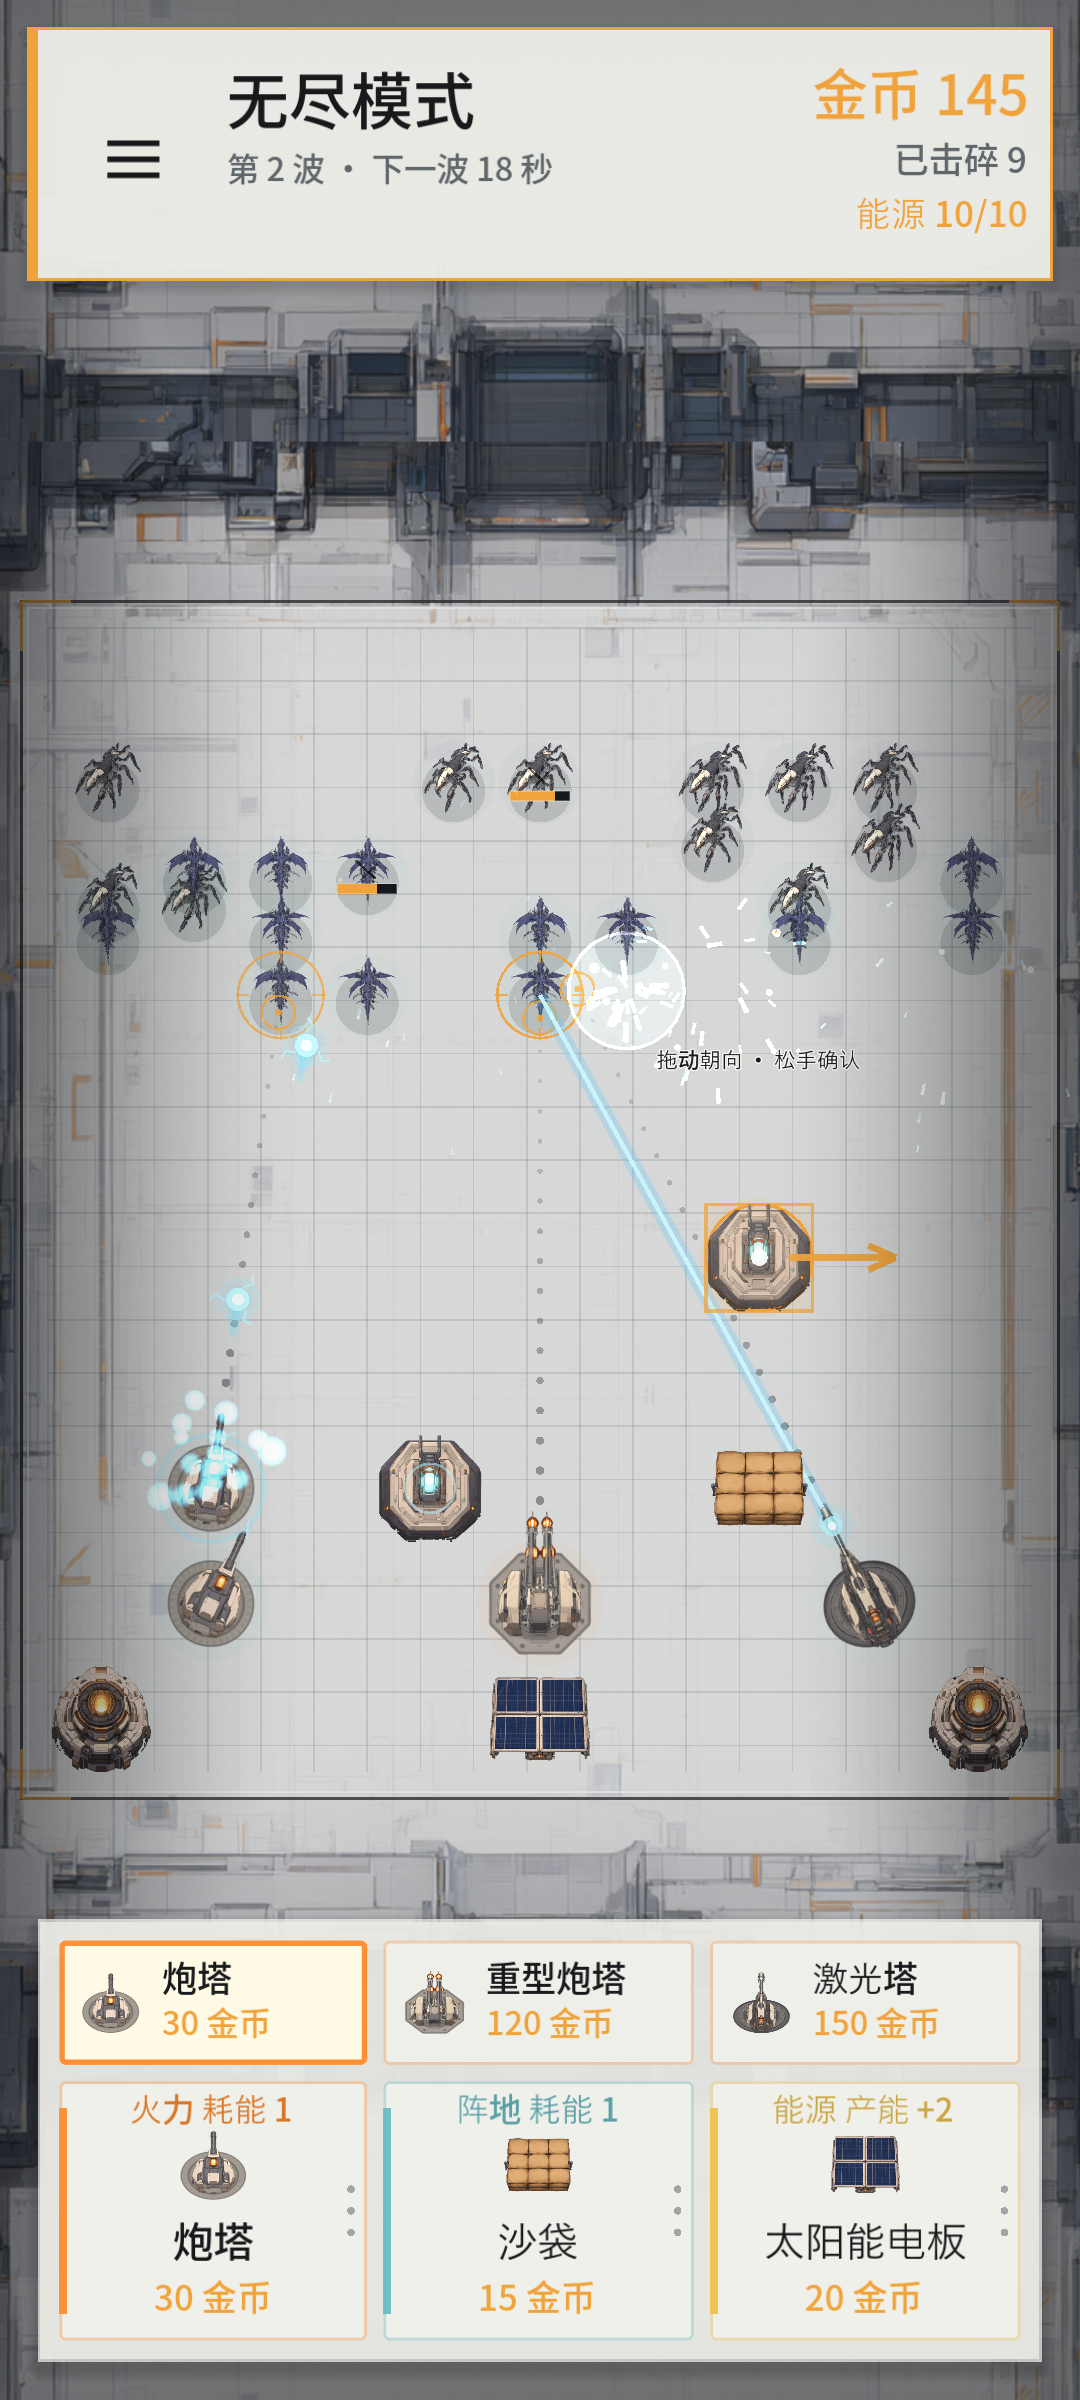
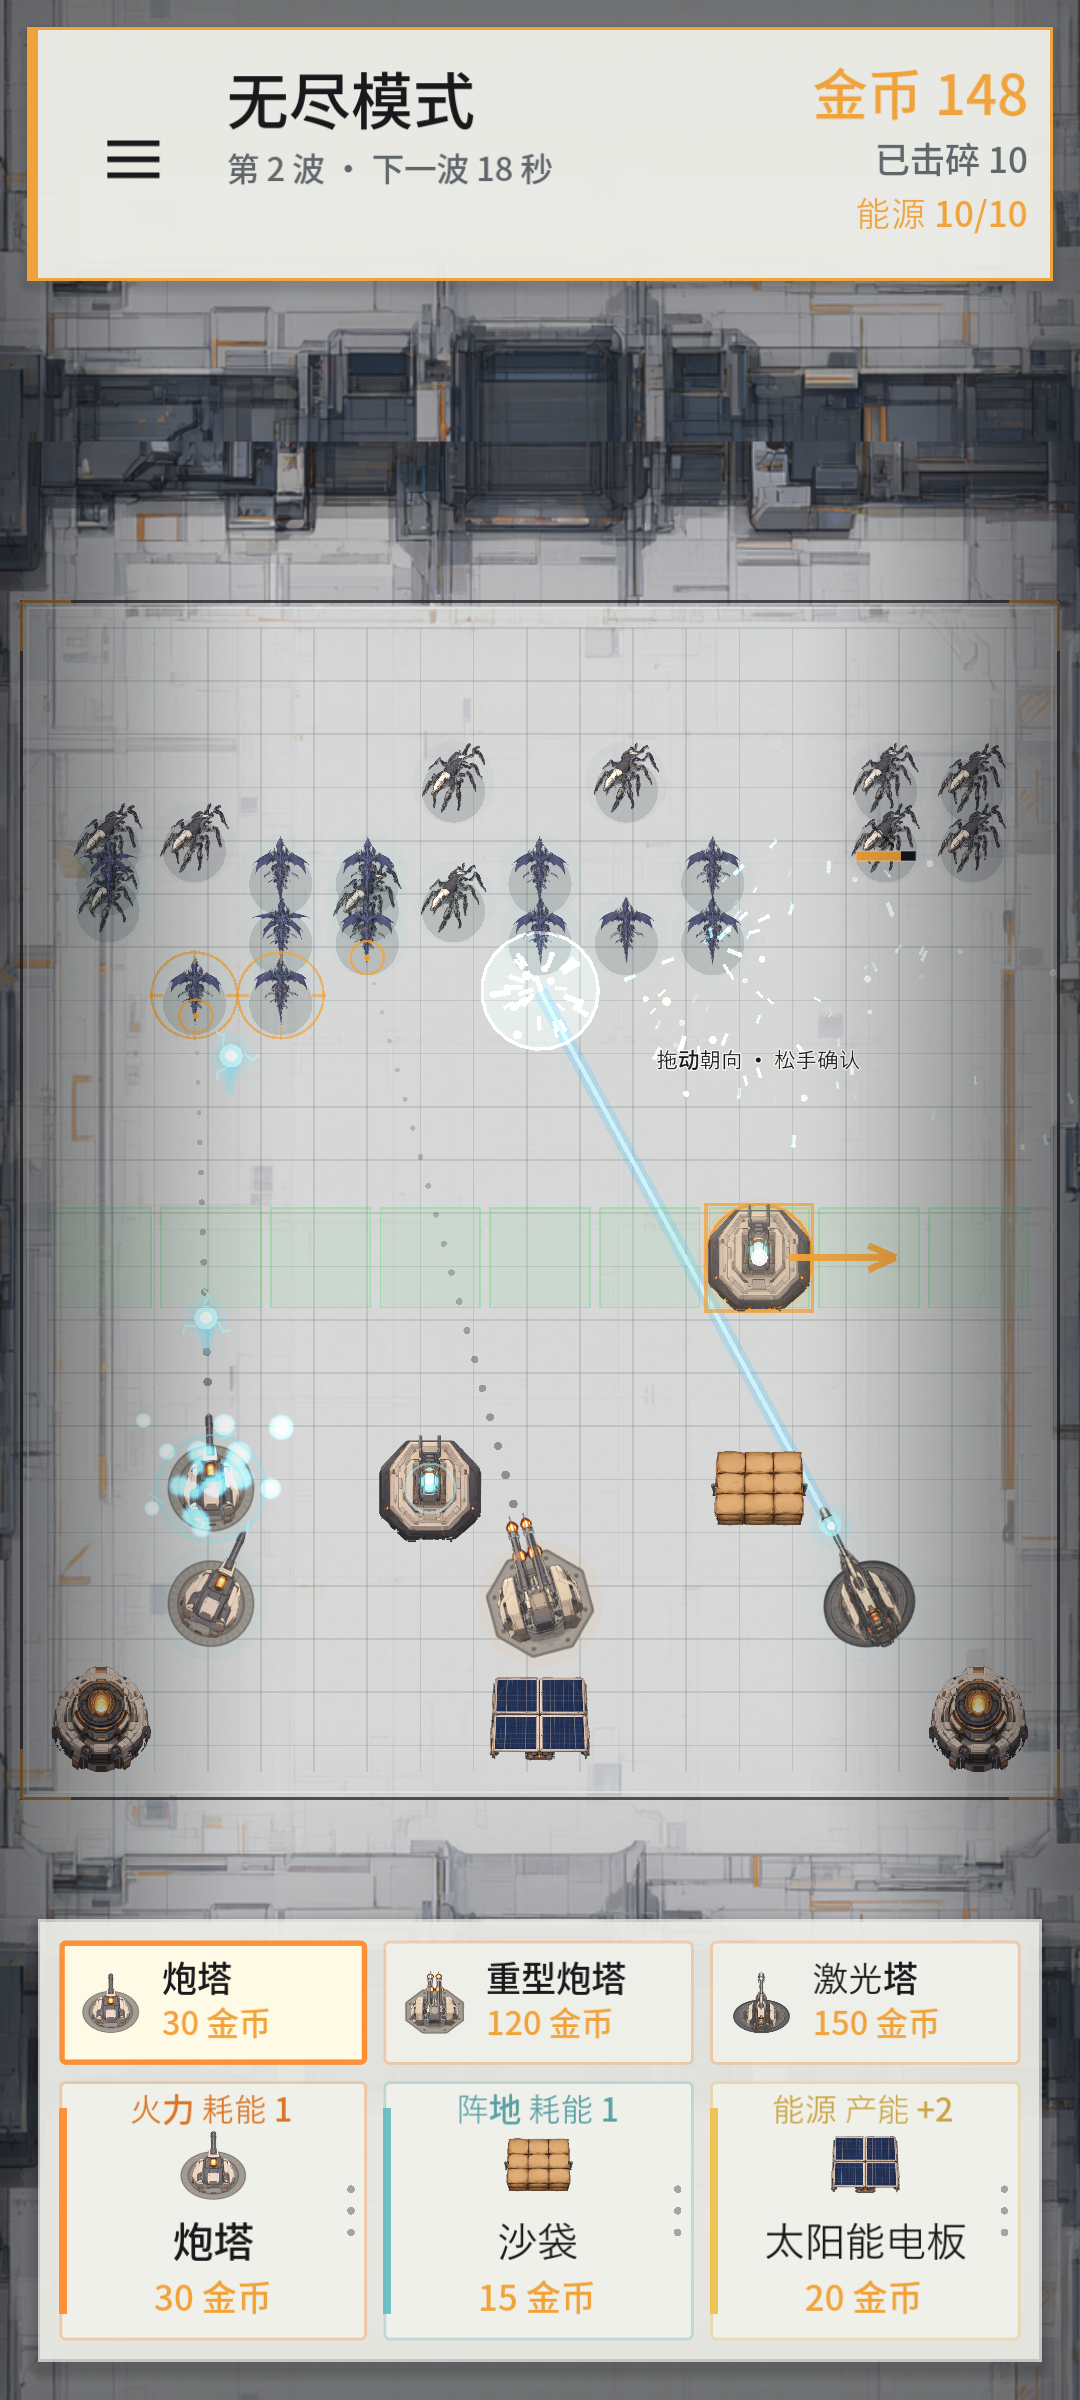
feat: 区分朝向建筑并恢复部署绿格
- 炮塔、电力塔等无朝向建筑拖放即放置，不再二次确认

- 压缩塔保留二次确认，部署时用绿色格子显示施法直线

- 确认后绿格隐藏，选中火力建筑时才显示射程格

diff --git a/README.md b/README.md
@@ -6,8 +6,8 @@
 
 金币来自击碎方块。商店按三类切换道具列表，所有形态都直接建造，没有升级路线：
 
-- **火力**：炮塔、重型炮塔、激光塔。拖到格子后再拖一次确认摆放；朝向只决定初始瞄准，索敌仍是 360° 圆形射程。
-- **阵地**：沙袋、压缩塔。沙袋负责拦截；压缩塔沿所选朝向覆盖整条直线。
+- **火力**：炮塔、重型炮塔、激光塔。拖到格子后直接放置，射程用绿色格子显示。
+- **阵地**：沙袋、压缩塔。沙袋负责拦截；压缩塔有施法朝向，需要二次确认，施法范围用绿色格子显示。
 - **能源**：太阳能电板、聚能塔。产能分别为 2 和 4。
 
 所有非能源建筑都要消耗能源。总产能小于总耗能时，按布置顺序供电，既有建筑优先；新布置且排不进供能的建筑离线：炮塔停火、压缩塔失效、沙袋不再拦截，建筑图标同时置灰。能源不足不再弹出提示，右上角只保留能源供需读数；补上能源建筑后，离线的建筑会按布置顺序恢复。
@@ -27,10 +27,10 @@
 - 开局没有默认建筑，玩家有 50 金币；5 秒准备期内不生成、不滚动方块
 - 底部商店固定三张类别卡：火力、阵地、能源；点击类别切换其道具列表，选中道具后类别卡会显示该道具
 - 火力：炮塔基础伤害 1、攻速 3.3 次/秒、射程 300；重型炮塔伤害 10、攻速 0.5 次/秒、射程 500，按威力连续贯穿；激光塔持续光束直接灼烧目标，伤害 5/0.2 秒
-- 火力建筑为 360° 圆形射程，按绿色格子判定目标；拖放到位后进入二次确认，再拖一次选初始朝向，松手确认并扣费，之后自动锁定射程格子内的目标
+- 火力建筑为 360° 圆形射程，按绿色格子判定目标；拖到格子后直接放置，不需要二次确认，之后自动锁定射程格子内的目标
 - 重型炮塔 120 金币、激光塔 150 金币，和炮塔并列出现在火力道具列表中，直接建造
 - 阵地：沙袋生命 120，敌人接触后停下攻击沙袋，沙袋被摧毁后敌人继续前进；压缩塔 60 金币，生命 180
-- 压缩塔：穿过自身、沿所选朝向覆盖整条直线，范围内火力伤害翻倍，炮弹附带蓝色电击特效；被加成的火力塔身上会持续冒青色粒子，多个压缩塔不叠加
+- 压缩塔：拖放到格子后需要二次确认，绿色格子会标出施法直线；确认后绿格隐藏，不再画线，被加成的火力塔身上会持续冒青色粒子，多个压缩塔不叠加
 - 能源：太阳能电板产能 2、20 金币；聚能塔产能 4、60 金币。总产能不足时只有排在后段或新布置的建筑离线并置灰
 - 每次发射都会生成一颗独立的球，之前发射的球继续飞行；基础炮弹撞到第一个方块或墙面就消失
 - 每颗球独立计算寿命，撞墙或命中后消失
@@ -51,13 +51,13 @@
 | 操作 | 键鼠 | 触摸 |
 | --- | --- | --- |
 | 选择类别/道具 | 点击类别卡、再点上方道具项 | 点击类别卡、再点上方道具项 |
-| 布置建筑 | 从类别卡拖到网格，再拖动选择朝向 | 从类别卡拖到网格，再拖动选择朝向 |
+| 布置建筑 | 从类别卡拖到网格；压缩塔再拖一次选朝向 | 从类别卡拖到网格；压缩塔再拖一次选朝向 |
 | 查看/拆除 | 点击已放置的建筑 | 点击已放置的建筑 |
 | 系统设置 / 暂停 | Esc 或右上角 ≡ | 右上角 ≡ |
 | 切换语言 | L 或设置面板 | 设置面板 |
 | 重开 | R 或设置面板 | 设置面板 |
 
-战斗自动进行：火力建筑在圆形射程内自动锁定、转向、开火；玩家负责选道具、拖放、二次确认和补齐能源。
+战斗自动进行：火力建筑在圆形射程内自动锁定、转向、开火；玩家负责选道具、拖放、给压缩塔确认朝向和补齐能源。
 
 ### 建筑与道具
 
@@ -74,21 +74,19 @@
 | 聚能塔 | 能源 | 60 金币 | 产能 +4 | 80 | 产能翻倍 |
 
 - 能源结算：总产能 ≥ 总耗能时全部正常；不足时按布置顺序给既有建筑供电，只有排在后面的建筑离线并置灰，能源建筑本身继续发电
-- 火力建筑与压缩塔在拖放后进入二次确认：再拖一次确定 8 个方向之一，松手确认并扣费；火力朝向只影响初始瞄准，之后仍是 360° 索敌；沙袋、太阳能电板和聚能塔无需朝向
+- 只有压缩塔在拖放后进入二次确认：再拖一次确定 8 个方向之一，松手确认并扣费；炮塔、沙袋、太阳能电板和聚能塔放下即完成
 - 拆除返还购买价的 50%；未供电的建筑或拆掉后场上将没有火力时全额返还，允许玩家把缺电/无输出阵容拆掉重建
 - 压缩塔的覆盖范围是穿过自身、沿朝向延伸的整条直线；只有靠近这条直线的火力建筑吃到增益
 - 电击弹在命中时使用蓝白火花；激光塔吃到压缩塔增益时伤害同样翻倍
 - 敌人只会被阵地建筑拦截，因此沙袋/压缩塔要放在火力前面；被摧毁的阵地会从场上移除
-- 拖拽时以绿色格子标出火力建筑的圆形射程，当前格用橙色描边；压缩塔不铺绿色格子也不画线，只用朝向箭头指示覆盖方向；金币不足时卡片变暗且无法开始拖拽
+- 拖拽时火力建筑用绿色格子标出圆形射程，压缩塔在二次确认时用绿色格子标出施法直线；确认后绿格隐藏，点击建筑查看详情才再次显示；金币不足时卡片变暗且无法开始拖拽
 - 部署期间战场时间降到 28%，屏幕四周压暗，确认或取消后恢复；沉浸感更强，也不会在摆建筑时被怪物偷血
 - 射程判定完全按格子，不再画圆弧；预览绿格、选中建筑绿格和索敌范围使用同一套格子
 - 点击已放置的建筑打开聚焦面板，显示属性与已发射数量；点击空白处或右上角 `×` 关闭
 
 ![拖拽中的圆形射程：绿色格子为覆盖范围](range_preview.png)
 
-![落格后的二次确认：圆形射程、当前格和朝向箭头](confirm_preview.png)
-
-![压缩塔的二次确认：只用朝向箭头指示方向](orientation_preview.png)
+![压缩塔的二次确认：绿色格子标出施法直线](orientation_preview.png)
 
 ## 主界面与设置
 
@@ -151,7 +149,7 @@ Godot_v4.7.2-stable_win64.exe --headless --fixed-fps 60 --path . res://tools/res
 Godot_v4.7.2-stable_win64.exe --headless --fixed-fps 60 --path . res://tools/smoke_test.tscn
 ```
 
-覆盖：默认中文语言包、英文 key 完整性、三类道具列表与直接建造、开局 50 金币、太阳能电板 + 炮塔刚好 50、无默认建筑、开局 5 秒准备/准备期无方块、方块从顶部视野外进入、拖放后二次确认、格子射程判定与圆形覆盖、部署减速/压暗与恢复、能源按布置顺序供电、新建筑离线置灰与恢复、重型炮塔/激光塔直接建造、激光塔光束直接伤害、自动索敌开火、沙袋拦截与受击/摧毁后放行、压缩塔朝向直线增益/偏离无效、加成塔粒子开关、电击弹伤害翻倍、网格吸附布置/四边边缘格子/扣费/非法位置、聚焦面板属性与拆除、方块击碎与金币奖励、命中粒子、波次节奏与血量复利成长、四类怪物差异、主界面与设置面板、暂停恢复与设置开关。
+覆盖：默认中文语言包、英文 key 完整性、三类道具列表与直接建造、开局 50 金币、太阳能电板 + 炮塔刚好 50、无默认建筑、开局 5 秒准备/准备期无方块、方块从顶部视野外进入、只有压缩塔二次确认、炮塔/电力塔直接放置、部署与确认绿格显示并在放下后隐藏、格子射程判定与圆形覆盖、部署减速/压暗与恢复、能源按布置顺序供电、新建筑离线置灰与恢复、重型炮塔/激光塔直接建造、激光塔光束直接伤害、自动索敌开火、沙袋拦截与受击/摧毁后放行、压缩塔朝向直线增益/偏离无效、加成塔粒子开关、电击弹伤害翻倍、网格吸附布置/四边边缘格子/扣费/非法位置、聚焦面板属性与拆除、方块击碎与金币奖励、命中粒子、波次节奏与血量复利成长、四类怪物差异、主界面与设置面板、暂停恢复与设置开关。
 
 ## 更新截图
 
@@ -159,7 +157,7 @@ Godot_v4.7.2-stable_win64.exe --headless --fixed-fps 60 --path . res://tools/smo
 Godot_v4.7.2-stable_win64.exe --path . res://tools/screenshot.tscn
 ```
 
-脚本会先快进让方块流铺满场地，再布置三类建筑并开火，最后把当前画面保存为 `image.png`（默认 1080×2400）。可用 `-- --size=1000x2000` 或 `-- --size=1080x2400` 生成指定竖屏尺寸的预览；附加 `-- --settings` 保存 `game_settings_preview.png`，附加 `-- --focus` 保存聚焦面板 `focus_preview.png`，附加 `-- --power` 保存能源不足的离线状态 `power_preview.png`，附加 `-- --place` 保存拖拽中的圆形射程格 `range_preview.png`，附加 `-- --confirm` 保存落格后的二次确认 `confirm_preview.png`，附加 `-- --orient` 保存压缩塔朝向选择 `orientation_preview.png`；`-- --locale=en` 可检查英文排版。主界面截图工具支持相同参数。
+脚本会先快进让方块流铺满场地，再布置三类建筑并开火，最后把当前画面保存为 `image.png`（默认 1080×2400）。可用 `-- --size=1000x2000` 或 `-- --size=1080x2400` 生成指定竖屏尺寸的预览；附加 `-- --settings` 保存 `game_settings_preview.png`，附加 `-- --focus` 保存聚焦面板 `focus_preview.png`，附加 `-- --power` 保存能源不足的离线状态 `power_preview.png`，附加 `-- --place` 保存拖拽中的圆形射程格 `range_preview.png`，附加 `-- --orient` 保存压缩塔二次确认和施法绿格 `orientation_preview.png`；`-- --locale=en` 可检查英文排版。主界面截图工具支持相同参数。
 
 ![聚焦面板：属性与拆除](focus_preview.png)
 
